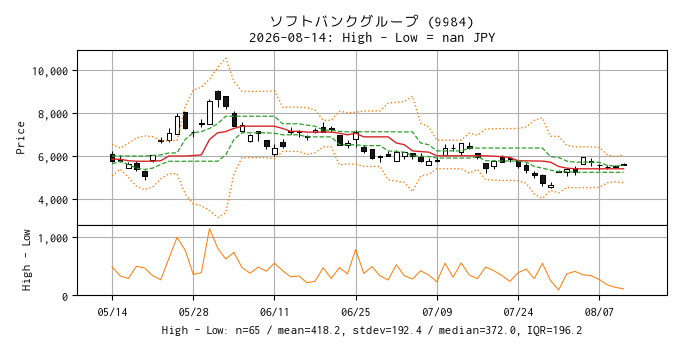
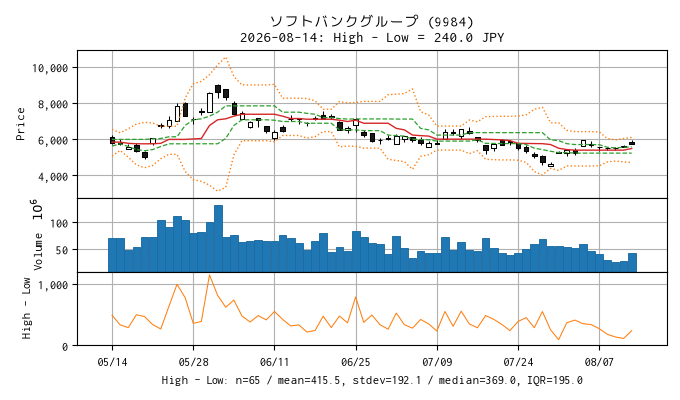
update

Changed region(s): [[0.0, 0.0286, 0.9882, 0.9714], [0.0309, 0.4857, 0.0618, 0.5429]]

diff --git a/funcs/plot.py b/funcs/plot.py
@@ -237,15 +237,15 @@ def trend_diff(code: str, df: pd.DataFrame, df0: pd.DataFrame = pd.DataFrame(), 
         # 東証銘柄
         img_name = os.path.join(dir_name, f"{code}_trend_diff.png")
         plt.rcParams["font.size"] = 9
-        n = 2
-        fig = plt.figure(figsize=(6.8, 3.5))
+        n = 3
+        fig = plt.figure(figsize=(6.8, 4))
         ax = dict()
         gs = fig.add_gridspec(
             n,
             1,
             wspace=0.0,
             hspace=0.0,
-            height_ratios=[2.5 if i <= 0 else 1 for i in range(n)],
+            height_ratios=[2 if i <= 0 else 1 for i in range(n)],
         )
         for i, axis in enumerate(gs.subplots(sharex="col")):
             ax[i] = axis
@@ -302,7 +302,7 @@ def trend_diff(code: str, df: pd.DataFrame, df0: pd.DataFrame = pd.DataFrame(), 
                 linestyle="dotted",
                 ax=ax[0],
             ),
-            mpf.make_addplot(df["Diff"], width=0.75, color="C1", ax=ax[1]),
+            mpf.make_addplot(df["Diff"], width=0.75, color="C1", ax=ax[2]),
         ]
         mpf.plot(
             df,
@@ -312,15 +312,16 @@ def trend_diff(code: str, df: pd.DataFrame, df0: pd.DataFrame = pd.DataFrame(), 
             xrotation=0,
             update_width_config=dict(candle_linewidth=0.75),
             addplot=apds,
+            volume=ax[1],
             ax=ax[0],
         )
         ax[0].yaxis.set_major_formatter(ticker.StrMethodFormatter("{x:,.0f}"))
 
-        ax[1].set_xlabel(footer)
-        ax[1].yaxis.set_major_formatter(ticker.StrMethodFormatter("{x:,.0f}"))
-        _, high = ax[1].get_ylim()
-        ax[1].set_ylim(0, high)
-        ax[1].set_ylabel("High - Low")
+        ax[2].set_xlabel(footer)
+        ax[2].yaxis.set_major_formatter(ticker.StrMethodFormatter("{x:,.0f}"))
+        _, high = ax[2].get_ylim()
+        ax[2].set_ylim(0, high)
+        ax[2].set_ylabel("High - Low")
     else:
         # 米国 ADR
         img_name = os.path.join(dir_name, f"{code}_trend.png")
